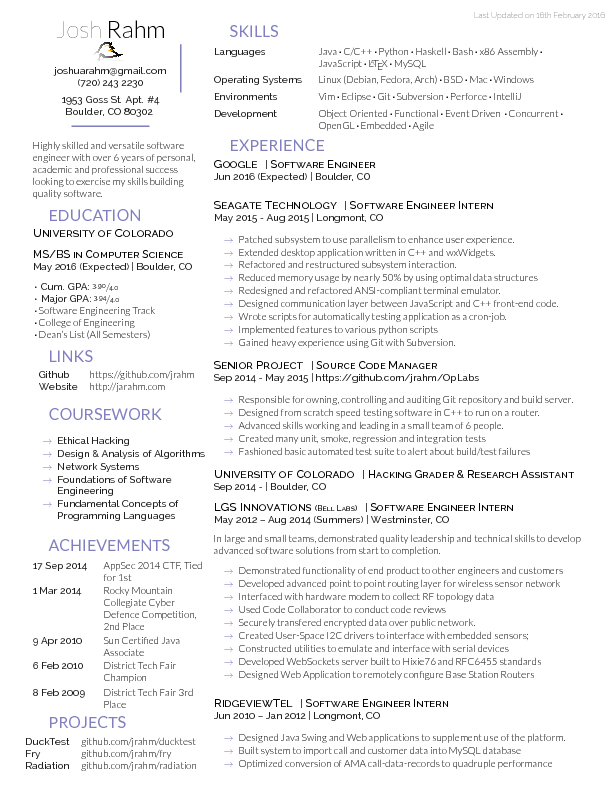
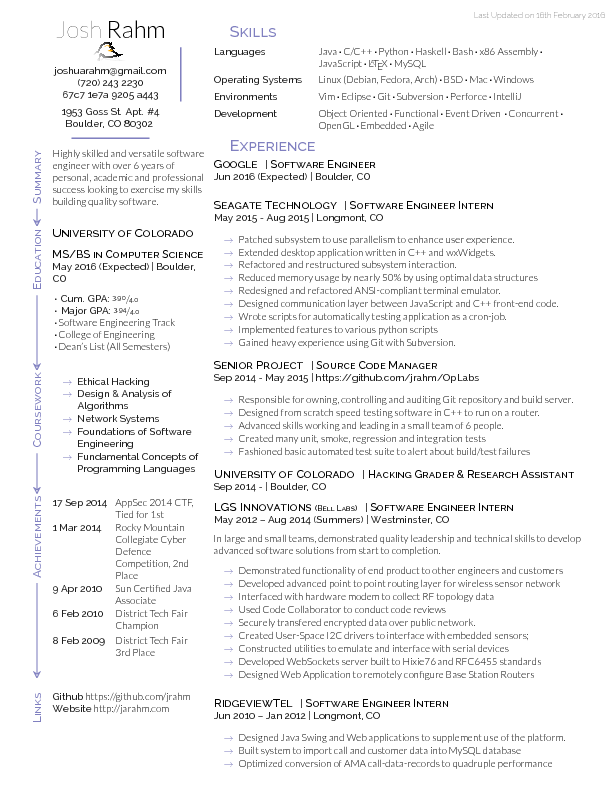
Sideways layout.

diff --git a/resume.tex b/resume.tex
@@ -50,7 +50,8 @@
 
                 \lstyle{%
                     joshuarahm@gmail.com \\
-                    (720) 243 2230
+                    (720) 243 2230 \\
+                    67c7 1e7a 9205 a443
                     \\[5pt]
                     1953 Goss St. Apt. \#4 \\
                     Boulder, CO 80302
@@ -67,56 +68,40 @@
 \end{tikzpicture}
 \vspace{10pt}
 
+\sidesection{Summary}{%
 \raggedright
 Highly skilled and versatile software engineer with over 6 years of personal,
 academic and professional success looking to exercise my skills building quality
 software.
 
-
-
-
-\section{Education}
-
-\subsection{University of Colorado}
-
-\sectionspace
-
-\descript{MS/BS in Computer Science}
-\location{May 2016 (Expected) | Boulder, CO}
-\vspace{\topsep}
-\sepbullet \lstyle{Cum. GPA: $\sfrac{\text{3.90}}{\text{4.0}}$} \\
-\sepbullet \lstyle{Major GPA: $\sfrac{\text{3.94}}{\text{4.0}}$} \\
-\sepbullet Software Engineering Track \\
-\sepbullet College of Engineering \\
-\sepbullet Dean's List (All Semesters)
-
-
-
-\section{Links}
-
-\begin{tabular}{l l}
-    \lstyle{Github} & https://github.com/jrahm \\
-    \lstyle{Website} &  http://jarahm.com
-\end{tabular}
-
-\sectionspace
-
-
-
-\section{Coursework}
-
-\lstyle{
-    \begin{tightitemize}
-        \item Ethical Hacking
-        \item Design \& Analysis of Algorithms
-        \item Network Systems
-        \item Foundations of Software Engineering
-        \item Fundamental Concepts of Programming Languages
-    \end{tightitemize}
 }
+\sidesection{Education}{%
+    \subsection{University of Colorado}
 
-\sectionspace
-\section{Achievements}
+    \sectionspace
+
+    \descript{MS/BS in Computer Science}
+    \location{May 2016 (Expected) | Boulder, CO}
+    \vspace{\topsep}
+    \sepbullet \lstyle{Cum. GPA: $\sfrac{\text{3.90}}{\text{4.0}}$} \\
+    \sepbullet \lstyle{Major GPA: $\sfrac{\text{3.94}}{\text{4.0}}$} \\
+    \sepbullet Software Engineering Track \\
+    \sepbullet College of Engineering \\
+    \sepbullet Dean's List (All Semesters)
+}
+\sidesection{Coursework}{%
+    \raggedright
+    \lstyle{
+        \begin{tightitemize}
+            \item Ethical Hacking
+            \item Design \& Analysis of Algorithms
+            \item Network Systems
+            \item Foundations of Software Engineering
+            \item Fundamental Concepts of Programming Languages
+        \end{tightitemize}
+    }
+}
+\sidesection{Achievements}{%
 
 \separatepages{0.4}{0.58}{\lstyle{17 Sep 2014}}
     {\raggedright AppSec 2014 CTF, Tied for 1st}
@@ -132,15 +117,24 @@ software.
 
     \separatepages{0.4}{0.58}{\lstyle{8 Feb 2009}}
     {\raggedright District Tech Fair 3rd Place}
+}
 
-\section{Projects}
+\sidesectionlast{Links}{%
+    \lstyle{Github}
+    https://github.com/jrahm
 
-\hspace{-15pt}
-\begin{tabular}{l l}
-    \lstyle{DuckTest} &  github.com/jrahm/ducktest \\
-    \lstyle{Fry} & github.com/jrahm/fry \\
-    \lstyle{Radiation} &  github.com/jrahm/radiation
-\end{tabular}
+    \lstyle{Website}
+    http://jarahm.com
+}
+
+% \sidesection{Proj}{%
+% \hspace{-15pt}
+% \begin{tabular}{l l}
+%     \lstyle{DuckTest} &  github.com/jrahm/ducktest \\
+%     \lstyle{Fry} & github.com/jrahm/fry \\
+%     \lstyle{Radiation} &  github.com/jrahm/radiation
+% \end{tabular}
+% }
 
 
 \end{minipage}
@@ -247,14 +241,6 @@ software solutions from start to completion.
 
 
 \end{minipage}
-
-
-
-
-
-
-
-
 
 \lastupdated
 \end{document}
